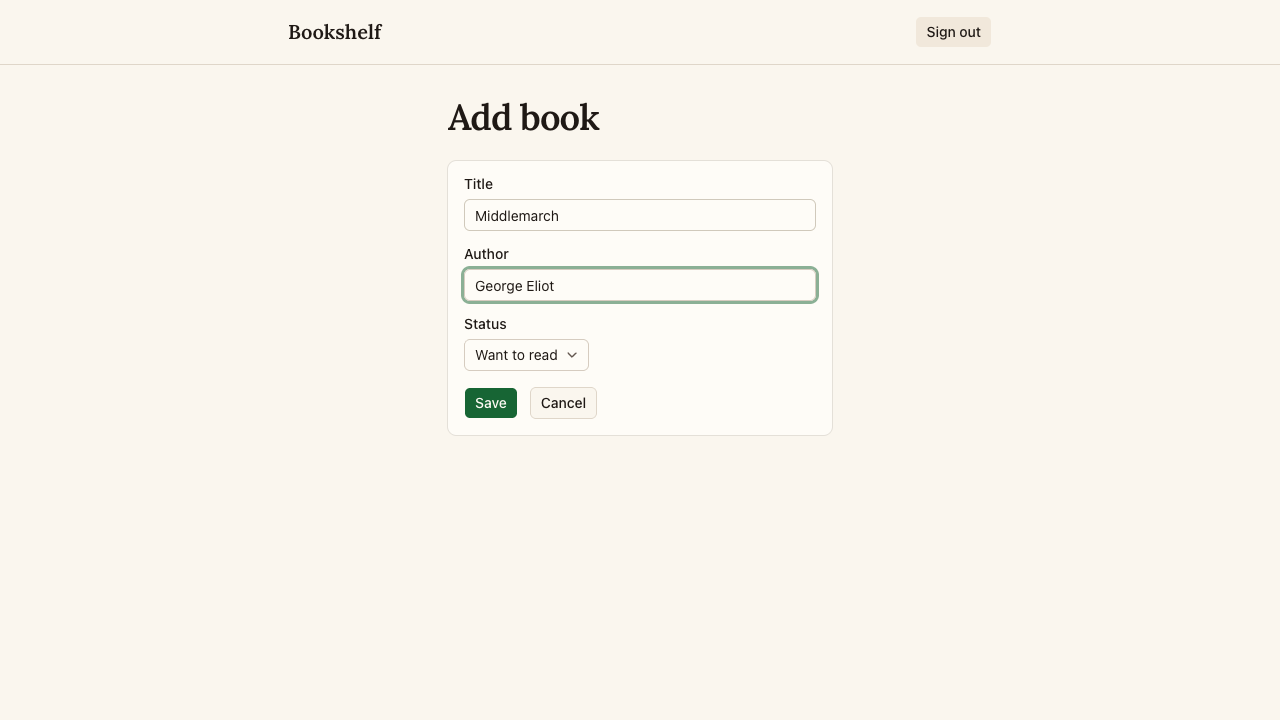
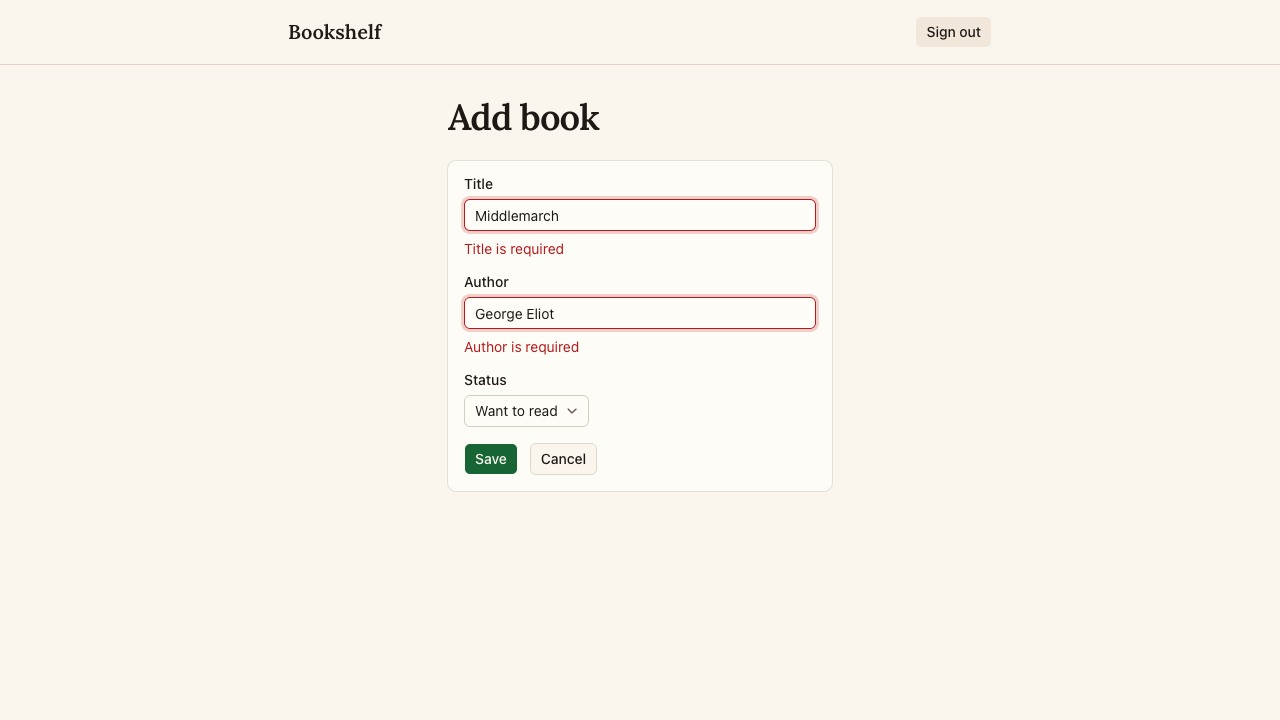
fix(F005): keep /styleguide LCP within budget
Trim select/badge to the classes the app uses and drop the unused
Geist Mono font so the global CSS stays under the Lighthouse LCP step.

Changed region(s): [[0.3438, 0.275, 0.6562, 0.6722]]

diff --git a/components/ui/select.tsx b/components/ui/select.tsx
@@ -11,19 +11,6 @@ function Select({
   return <SelectPrimitive.Root data-slot="select" {...props} />
 }
 
-function SelectGroup({
-  className,
-  ...props
-}: React.ComponentProps<typeof SelectPrimitive.Group>) {
-  return (
-    <SelectPrimitive.Group
-      data-slot="select-group"
-      className={cn("scroll-my-1 p-1", className)}
-      {...props}
-    />
-  )
-}
-
 function SelectValue({
   ...props
 }: React.ComponentProps<typeof SelectPrimitive.Value>) {
@@ -32,18 +19,14 @@ function SelectValue({
 
 function SelectTrigger({
   className,
-  size = "default",
   children,
   ...props
-}: React.ComponentProps<typeof SelectPrimitive.Trigger> & {
-  size?: "sm" | "default"
-}) {
+}: React.ComponentProps<typeof SelectPrimitive.Trigger>) {
   return (
     <SelectPrimitive.Trigger
       data-slot="select-trigger"
-      data-size={size}
       className={cn(
-        "flex w-fit items-center justify-between gap-1.5 rounded-lg border border-input bg-transparent py-2 pr-2 pl-2.5 text-sm whitespace-nowrap transition-colors outline-none select-none focus-visible:border-ring focus-visible:ring-3 focus-visible:ring-ring/50 disabled:cursor-not-allowed disabled:opacity-50 aria-invalid:border-destructive aria-invalid:ring-3 aria-invalid:ring-destructive/20 data-placeholder:text-muted-foreground data-[size=default]:h-8 data-[size=sm]:h-7 data-[size=sm]:rounded-[min(var(--radius-md),10px)] *:data-[slot=select-value]:line-clamp-1 *:data-[slot=select-value]:flex *:data-[slot=select-value]:items-center *:data-[slot=select-value]:gap-1.5 dark:bg-input/30 dark:hover:bg-input/50 dark:aria-invalid:border-destructive/50 dark:aria-invalid:ring-destructive/40 [&_svg]:pointer-events-none [&_svg]:shrink-0 [&_svg:not([class*='size-'])]:size-4",
+        "flex w-fit items-center justify-between gap-1.5 rounded-lg border border-input bg-transparent py-2 pr-2 pl-2.5 text-sm whitespace-nowrap transition-colors outline-none select-none focus-visible:border-ring focus-visible:ring-3 focus-visible:ring-ring/50 disabled:cursor-not-allowed disabled:opacity-50 aria-invalid:border-destructive aria-invalid:ring-3 aria-invalid:ring-destructive/20 data-placeholder:text-muted-foreground h-8 *:data-[slot=select-value]:line-clamp-1 *:data-[slot=select-value]:flex *:data-[slot=select-value]:items-center *:data-[slot=select-value]:gap-1.5 [&_svg]:pointer-events-none [&_svg]:shrink-0 [&_svg:not([class*='size-'])]:size-4",
         className
       )}
       {...props}
@@ -59,46 +42,22 @@ function SelectTrigger({
 function SelectContent({
   className,
   children,
-  position = "item-aligned",
-  align = "center",
   ...props
-}: React.ComponentProps<typeof SelectPrimitive.Content>) {
+}: Omit<React.ComponentProps<typeof SelectPrimitive.Content>, "position" | "align">) {
   return (
     <SelectPrimitive.Portal>
       <SelectPrimitive.Content
         data-slot="select-content"
-        data-align-trigger={position === "item-aligned"}
-        className={cn("relative z-50 max-h-(--radix-select-content-available-height) min-w-36 origin-(--radix-select-content-transform-origin) overflow-x-hidden overflow-y-auto rounded-lg bg-popover text-popover-foreground shadow-md ring-1 ring-foreground/10 duration-100 data-[align-trigger=true]:animate-none data-[side=bottom]:slide-in-from-top-2 data-[side=left]:slide-in-from-right-2 data-[side=right]:slide-in-from-left-2 data-[side=top]:slide-in-from-bottom-2 data-open:animate-in data-open:fade-in-0 data-open:zoom-in-95 data-closed:animate-out data-closed:fade-out-0 data-closed:zoom-out-95", position ==="popper"&&"data-[side=bottom]:translate-y-1 data-[side=left]:-translate-x-1 data-[side=right]:translate-x-1 data-[side=top]:-translate-y-1", className )}
-        position={position}
-        align={align}
+        className={cn("relative z-50 max-h-(--radix-select-content-available-height) min-w-36 origin-(--radix-select-content-transform-origin) overflow-x-hidden overflow-y-auto rounded-lg bg-popover text-popover-foreground shadow-md ring-1 ring-foreground/10", className)}
         {...props}
       >
         <SelectScrollUpButton />
-        <SelectPrimitive.Viewport
-          data-position={position}
-          className={cn(
-            "data-[position=popper]:h-(--radix-select-trigger-height) data-[position=popper]:w-full data-[position=popper]:min-w-(--radix-select-trigger-width)",
-            position === "popper" && ""
-          )}
-        >
+        <SelectPrimitive.Viewport>
           {children}
         </SelectPrimitive.Viewport>
         <SelectScrollDownButton />
       </SelectPrimitive.Content>
     </SelectPrimitive.Portal>
-  )
-}
-
-function SelectLabel({
-  className,
-  ...props
-}: React.ComponentProps<typeof SelectPrimitive.Label>) {
-  return (
-    <SelectPrimitive.Label
-      data-slot="select-label"
-      className={cn("px-1.5 py-1 text-xs text-muted-foreground", className)}
-      {...props}
-    />
   )
 }
 
@@ -111,7 +70,7 @@ function SelectItem({
     <SelectPrimitive.Item
       data-slot="select-item"
       className={cn(
-        "relative flex w-full cursor-default items-center gap-1.5 rounded-md py-1 pr-8 pl-1.5 text-sm outline-hidden select-none focus:bg-accent focus:text-accent-foreground not-data-[variant=destructive]:focus:**:text-accent-foreground data-disabled:pointer-events-none data-disabled:opacity-50 [&_svg]:pointer-events-none [&_svg]:shrink-0 [&_svg:not([class*='size-'])]:size-4 *:[span]:last:flex *:[span]:last:items-center *:[span]:last:gap-2",
+        "relative flex w-full cursor-default items-center gap-1.5 rounded-md py-1 pr-8 pl-1.5 text-sm outline-hidden select-none focus:bg-accent focus:text-accent-foreground data-disabled:pointer-events-none data-disabled:opacity-50 [&_svg]:pointer-events-none [&_svg]:shrink-0 [&_svg:not([class*='size-'])]:size-4 *:[span]:last:flex *:[span]:last:items-center *:[span]:last:gap-2",
         className
       )}
       {...props}
@@ -123,19 +82,6 @@ function SelectItem({
       </span>
       <SelectPrimitive.ItemText>{children}</SelectPrimitive.ItemText>
     </SelectPrimitive.Item>
-  )
-}
-
-function SelectSeparator({
-  className,
-  ...props
-}: React.ComponentProps<typeof SelectPrimitive.Separator>) {
-  return (
-    <SelectPrimitive.Separator
-      data-slot="select-separator"
-      className={cn("pointer-events-none -mx-1 my-1 h-px bg-border", className)}
-      {...props}
-    />
   )
 }
 
@@ -180,12 +126,9 @@ function SelectScrollDownButton({
 export {
   Select,
   SelectContent,
-  SelectGroup,
   SelectItem,
-  SelectLabel,
   SelectScrollDownButton,
   SelectScrollUpButton,
-  SelectSeparator,
   SelectTrigger,
   SelectValue,
 }

diff --git a/components/ui/badge.tsx b/components/ui/badge.tsx
@@ -4,20 +4,12 @@ import { cn } from "cn"
 import { Slot } from "radix-ui"
 
 const badgeVariants = cva(
-  "group/badge inline-flex h-5 w-fit shrink-0 items-center justify-center gap-1 overflow-hidden rounded-4xl border border-transparent px-2 py-0.5 text-xs font-medium whitespace-nowrap transition-all focus-visible:border-ring focus-visible:ring-[3px] focus-visible:ring-ring/50 has-data-[icon=inline-end]:pr-1.5 has-data-[icon=inline-start]:pl-1.5 aria-invalid:border-destructive aria-invalid:ring-destructive/20 dark:aria-invalid:ring-destructive/40 [&>svg]:pointer-events-none [&>svg]:size-3!",
+  "group/badge inline-flex h-5 w-fit shrink-0 items-center justify-center gap-1 overflow-hidden rounded-4xl border border-transparent px-2 py-0.5 text-xs font-medium whitespace-nowrap transition-all focus-visible:border-ring focus-visible:ring-[3px] focus-visible:ring-ring/50 has-data-[icon=inline-end]:pr-1.5 has-data-[icon=inline-start]:pl-1.5 [&>svg]:pointer-events-none [&>svg]:size-3!",
   {
     variants: {
       variant: {
-        default: "bg-primary text-primary-foreground [a]:hover:bg-primary/80",
-        secondary:
-          "bg-secondary text-secondary-foreground [a]:hover:bg-secondary/80",
-        destructive:
-          "bg-destructive/10 text-destructive focus-visible:ring-destructive/20 dark:bg-destructive/20 dark:focus-visible:ring-destructive/40 [a]:hover:bg-destructive/20",
-        outline:
-          "border-border text-foreground [a]:hover:bg-muted [a]:hover:text-muted-foreground",
-        ghost:
-          "hover:bg-muted hover:text-muted-foreground dark:hover:bg-muted/50",
-        link: "text-primary underline-offset-4 hover:underline",
+        default: "bg-primary text-primary-foreground",
+        secondary: "bg-secondary text-secondary-foreground",
       },
     },
     defaultVariants: {

diff --git a/app/layout.tsx b/app/layout.tsx
@@ -1,5 +1,5 @@
 import type { Metadata } from "next";
-import { Geist_Mono, Lora } from "next/font/google";
+import { Lora } from "next/font/google";
 import { Suspense } from "react";
 import "./globals.css";
 import { SiteHeader } from "@/components/site-header";
@@ -9,11 +9,6 @@ import { signOut } from "./(auth)/actions";
 
 // Headings and book titles; body text uses the system sans stack from globals.css.
 const lora = Lora({ subsets: ["latin"], variable: "--font-serif" });
-
-const geistMono = Geist_Mono({
-  variable: "--font-geist-mono",
-  subsets: ["latin"],
-});
 
 export const metadata: Metadata = {
   title: "Bookshelf",
@@ -30,7 +25,7 @@ export default function RootLayout({ children }: LayoutProps<"/">) {
   return (
     <html
       lang="en"
-      className={cn("h-full", "antialiased", geistMono.variable, "font-sans", lora.variable)}
+      className={cn("h-full", "antialiased", "font-sans", lora.variable)}
     >
       <body className="min-h-full flex flex-col">
         <Suspense fallback={<SiteHeader signedIn={false} signOut={signOut} />}>

diff --git a/app/globals.css b/app/globals.css
@@ -7,7 +7,6 @@
   --color-foreground: var(--foreground);
   --font-sans: var(--font-sans);
   --font-serif: var(--font-serif);
-  --font-mono: var(--font-geist-mono);
   --font-heading: var(--font-serif);
   --color-sidebar-ring: var(--sidebar-ring);
   --color-sidebar-border: var(--sidebar-border);

diff --git a/harness/evidence/F005.md b/harness/evidence/F005.md
@@ -1,21 +1,19 @@
 <!-- written by harness/hooks/verifier-evidence.py; do not edit -->
-- Verified at: 2026-11-02T07:13:42 on 58808b1 plus working tree
-- Verifier run: a5ef98e375216c132
+- Verified at: 2026-11-02T12:36:28 on 9ac6b5e plus working tree
+- Verifier run: a73ff1186e43a9c0e
 
 VERDICT: PASS
 FEATURE: F005
 EVIDENCE:
-- Setup: init.sh started with PORT=43110 and the app served http://localhost:43110. I signed up a fresh account (qa-f005-1793578319502@example.com) and landed on /books.
-- Step 1: /books/new shows the textboxes "Title" and "Author" and the combobox "Status", with a Save button and a Cancel link. Status shows "Want to read" by default. (/Users/huynguyen/Desktop/harness-web-trial-loop/F005/harness/evidence/F005/step-01.png)
-- Step 2: On a freshly loaded form I typed Title "Middlemarch" and Author "George Eliot", left Status at "Want to read" and clicked Save. (/Users/huynguyen/Desktop/harness-web-trial-loop/F005/harness/evidence/F005/step-02.png)
-- Step 3: I was redirected to /books. The list item reads "Middlemarch / George Eliot / Want to read" with a badge, and the empty state is gone (the page has no "Your shelf is empty" text). (/Users/huynguyen/Desktop/harness-web-trial-loop/F005/harness/evidence/F005/step-03.png)
-- Step 4: I clicked "Add book", entered "Dune" / "Frank Herbert", and picked "Reading" from the Status listbox (the combobox then read "Reading"). After Save, /books lists "Dune / Frank Herbert / Reading" (green Reading badge) above "Middlemarch / George Eliot / Want to read". (/Users/huynguyen/Desktop/harness-web-trial-loop/F005/harness/evidence/F005/step-04.png; mobile at 375x812: /Users/huynguyen/Desktop/harness-web-trial-loop/F005/harness/evidence/F005/step-04-mobile.png, no overflow and the layout holds)
-- Empty input edge case: clicking Save with both fields empty keeps you on /books/new and shows the inline errors "Title is required" and "Author is required". No book is created.
-- Refresh and back button: going back from /books/new to /books and then reloading still shows both books, so they persisted. When I opened "Add book" again, the form was empty (Title and Author blank, Status "Want to read", no stale errors).
-- Auth: in a separate browser context with no session, /books/new ends up at /sign-in. The redirect is streamed with NEXT_REDIRECT, and curl sees 200 at first, the same as /books.
-- Errors: the browser console had 0 errors and 0 warnings for the whole flow, and the dev-server log had no error lines.
-- Test coverage: /Users/huynguyen/Desktop/harness-web-trial-loop/F005/e2e/add-book.spec.ts covers all 4 acceptance steps with a fresh account, plus a11y checks and a visual snapshot. lib/books.test.ts was also changed. I did not run the suites myself.
+- Setup: `./init.sh` started the app at http://localhost:43104, which is the URL it printed. I signed up a new user (qa1793597678921@example.com) and was taken to /books.
+- Step 1: /books/new shows Title, Author and a Status combobox. Status reads "Want to read" by default. Clicking it opens a listbox with Want to read (selected and checked), Reading and Finished. The listbox is opaque, sits on top of the trigger and is styled correctly after the select.tsx trim. Escape closes it. (/Users/huynguyen/Desktop/harness-web-trial-loop/F005/harness/evidence/F005/step-01.png, /Users/huynguyen/Desktop/harness-web-trial-loop/F005/harness/evidence/F005/step-01-select-open.png)
+- Step 2: I entered "Middlemarch" and "George Eliot" and left Status at "Want to read". (/Users/huynguyen/Desktop/harness-web-trial-loop/F005/harness/evidence/F005/step-02.png)
+- Step 3: Clicking Save took me to /books ("My books"). The list shows "Middlemarch" by "George Eliot" with a "Want to read" badge (data-slot=badge, bg-secondary, readable contrast). The empty state is gone. (/Users/huynguyen/Desktop/harness-web-trial-loop/F005/harness/evidence/F005/step-03.png)
+- Step 4: I added Dune / Frank Herbert using only the keyboard for Status. Tab from Author focuses the combobox, Enter opens it, ArrowDown highlights Reading, Enter selects it, and focus goes back to the combobox. After Save, /books shows "Dune, Frank Herbert, Reading" (green badge) above "Middlemarch, George Eliot, Want to read". (/Users/huynguyen/Desktop/harness-web-trial-loop/F005/harness/evidence/F005/step-04-select-keyboard.png, /Users/huynguyen/Desktop/harness-web-trial-loop/F005/harness/evidence/F005/step-04.png)
+- Mobile 375x812: the list and badges lay out cleanly and nothing overflows. (/Users/huynguyen/Desktop/harness-web-trial-loop/F005/harness/evidence/F005/step-04-mobile.png)
+- Edge cases:
+  - Saving the form empty keeps you on /books/new and marks both fields aria-invalid. The server action returned the field errors "Title is required" and "Author is required".
+  - Reloading /books still shows both books with the right badges.
+- Console and server: the browser logged no errors or warnings during the flow. The server log has no errors; the only match for "error" is the expected validation result from the empty submit.
+- Test coverage: /Users/huynguyen/Desktop/harness-web-trial-loop/F005/e2e/add-book.spec.ts covers the default "Want to read", the Middlemarch badge and picking "Reading" for Dune.
 PROBLEMS:
-None block acceptance. Two things to note:
-- Minor UX issue, outside the acceptance steps: after a failed empty submit, the "Title is required" and "Author is required" errors and the red field borders stay visible while the user types valid values. They only clear on the next submit. To reproduce: on /books/new, click Save with empty fields, then type into Title and Author; the errors are still shown.
-- Not a bug, but it may trip up locator-based tests: after a client-side navigation, the previous route's `<main>` stays in the DOM, hidden with display:none (Next 16 route preservation). A bare `locator('main')` therefore fails strict mode; scope to visible elements instead.

diff --git a/harness/log/F005.md b/harness/log/F005.md
@@ -1,3 +1,8 @@
+## 2026-11-02 12:40 · passing
+- Did: fixed CI perf failure (/styleguide LCP 2617 ms > 2500). Cause: Select/Badge classes grew the render-blocking global CSS past a simulated TCP round-trip (main was already at 2473 ms). Trimmed components/ui/select.tsx and badge.tsx to used parts (popper/animation/dark/unused subcomponents; animations were already off via item-aligned) and removed the unused Geist Mono font. /styleguide LCP now 2324 ms.
+- Verified by: perf.sh, check.sh, verifier PASS (harness/evidence/F005.md).
+- Next session should know: global CSS is near the LCP step (~8.6 KB gzip); new shadcn components add to every page's CSS, so trim unused classes and run ./scripts/perf.sh.
+
 ## 2026-11-02 12:00 · passing
 - Did: parseNewBook/insertBook/STATUS_LABELS in lib/books.ts, createBook action, /books/new form (shadcn Select, Badge), BookList and StatusBadge on /books, e2e test with baseline.
 - Verified by: check.sh, reviewer (no bugs), verifier PASS (harness/evidence/F005.md).
